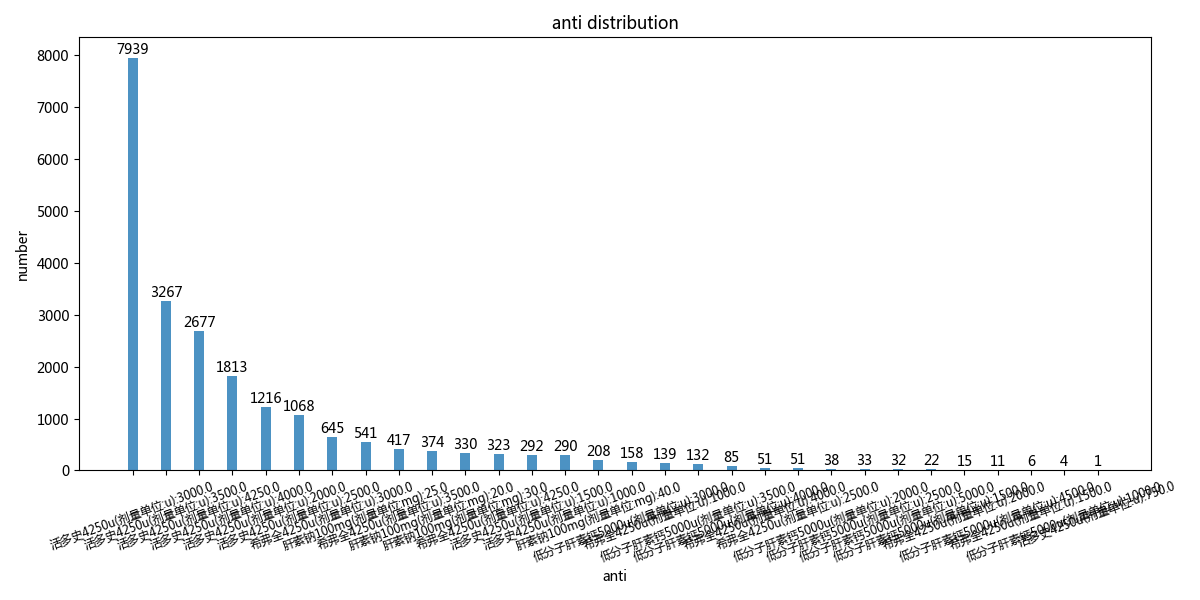
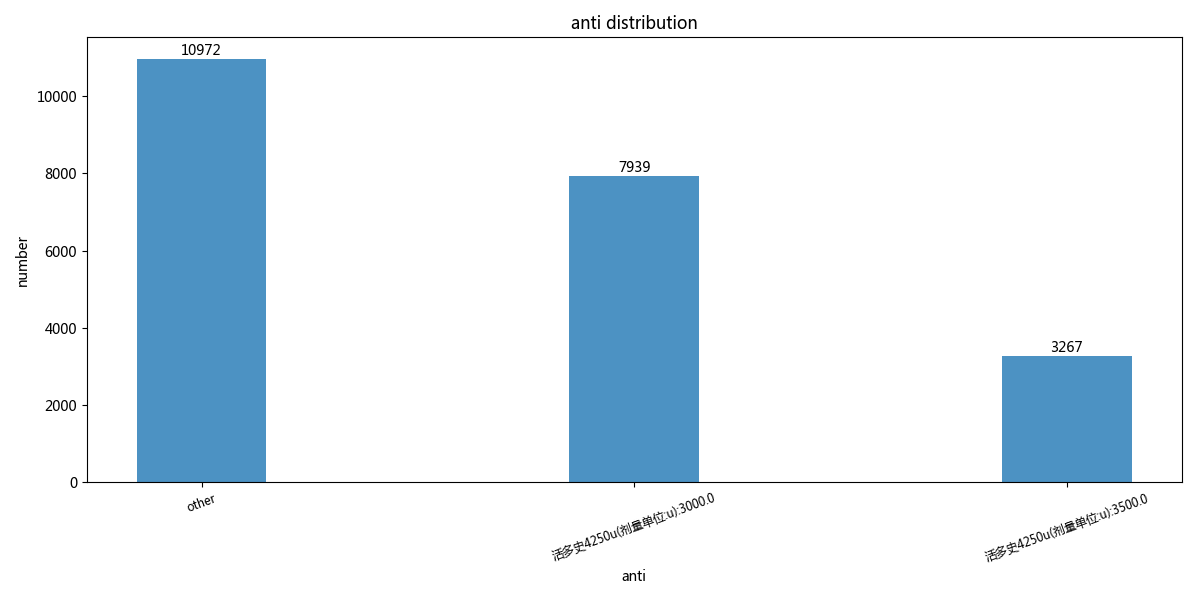
second try

diff --git a/model_main.py b/model_main.py
@@ -1,7 +1,7 @@
 # -*- coding: utf-8 -*-
 # @Author: LogicJake
 # @Date:   2018-10-29 18:53:00
-# @Last Modified time: 2018-10-31 17:30:47
+# @Last Modified time: 2018-11-02 11:24:56
 from loss_history import LossHistory
 import numpy as np
 import pandas as pd
@@ -13,6 +13,7 @@ from keras import regularizers
 from sklearn.cross_validation import train_test_split
 from keras.models import load_model
 from keras import backend as K
+from keras.optimizers import SGD
 
 
 seed = 7
@@ -20,7 +21,6 @@ np.random.seed(seed)
 
 # hyperparameters
 BS = 10000
-EPOCHS = 100
 l = 0.01
 
 
@@ -39,7 +39,21 @@ class MainModel(object):
         self.label_dict = {}
         self.label_num = {}
 
-    def build_hide(self, visible):
+    def build_mm_hide(self, visible):
+        hide1 = Dense(10, activation='relu',
+                      kernel_initializer='normal', activity_regularizer=regularizers.l1(l))(visible)
+        hide2 = Dense(10, activation='relu',
+                      kernel_initializer='normal', activity_regularizer=regularizers.l1(l))(hide1)
+        return hide2
+
+    def build_anti_hide(self, visible):
+        hide1 = Dense(10, activation='relu',
+                      kernel_initializer='normal', activity_regularizer=regularizers.l1(l))(visible)
+        hide2 = Dense(10, activation='relu',
+                      kernel_initializer='normal', activity_regularizer=regularizers.l1(l))(hide1)
+        return hide2
+
+    def build_add_hide(self, visible):
         hide1 = Dense(10, activation='relu',
                       kernel_initializer='normal', activity_regularizer=regularizers.l1(l))(visible)
         hide2 = Dense(10, activation='relu',
@@ -49,32 +63,26 @@ class MainModel(object):
     def build(self, input_dim):
         visible = Input(shape=(input_dim, ))
 
-        hide = self.build_hide(visible)
+        mm_hide = self.build_mm_hide(visible)
+        anti_hide = self.build_anti_hide(visible)
+        add_hide = self.build_add_hide(visible)
 
-        mode_num = self.label_num['mode']
-        machine_num = self.label_num['machine']
-        anti_type_num = self.label_num['anti_type']
-        anti_first_num = self.label_num['anti_first']
+        mm_num = self.label_num['mm']
+        anti_num = self.label_num['anti']
 
-        # mode
-        output_mode = Dense(mode_num, activation='sigmoid', kernel_initializer='normal',
-                            name='output_mode')(hide)
-        # machine
-        output_machine = Dense(machine_num, activation='sigmoid', kernel_initializer='normal',
-                               name='output_machine')(hide)
-        # anti_type
-        output_anti_type = Dense(anti_type_num, activation='sigmoid', kernel_initializer='normal',
-                                 name='output_anti_type')(hide)
-        # anti_first
-        output_anti_first = Dense(anti_first_num, activation='sigmoid', kernel_initializer='normal',
-                                  name='output_anti_first')(hide)
+        # mm
+        output_mm = Dense(mm_num, activation='softmax', kernel_initializer='normal',
+                          name='output_mm')(mm_hide)
+        # anti
+        output_anti = Dense(anti_num, activation='softmax', kernel_initializer='normal',
+                            name='output_anti')(anti_hide)
+
         # anti_add
         output_anti_add = Dense(1, kernel_initializer='normal',
-                                name='output_anti_add')(hide)
+                                name='output_anti_add')(add_hide)
 
         model = Model(inputs=visible,
-                      outputs=[output_mode, output_machine,
-                               output_anti_type, output_anti_first, output_anti_add])
+                      outputs=[output_mm, output_anti, output_anti_add])
         plot_model(model, to_file='model/model.png')
         return model
 
@@ -83,7 +91,7 @@ class MainModel(object):
             index = 0
             label = {}
             for column_name in columns:
-                if column_name.startswith(column):
+                if column_name.startswith(column + "+"):
                     label[index] = column_name.split('+')[1]
                     index += 1
             self.label_dict[column] = label
@@ -91,36 +99,30 @@ class MainModel(object):
 
     def split_Y(self, dataset):
         anti_add_num = 1
-        mode_num = self.label_num['mode']
-        machine_num = self.label_num['machine']
-        anti_type_num = self.label_num['anti_type']
-        anti_first_num = self.label_num['anti_first']
+        mm_num = self.label_num['mm']
+        anti_num = self.label_num['anti']
 
         anti_add_start = 0
-        mode_start = anti_add_start + anti_add_num
-        machine_start = mode_start + mode_num
-        anti_type_start = machine_start + machine_num
-        anti_first_start = anti_type_start + anti_type_num
+        mm_start = anti_add_start + anti_add_num
+        anti_start = mm_start + mm_num
 
-        Y_anti_add = dataset[:, anti_add_start:mode_start]
-        Y_mode = dataset[:, mode_start:machine_start]
-        Y_machine = dataset[:, machine_start:anti_type_start]
-        Y_anti_type = dataset[:, anti_type_start:anti_first_start]
-        Y_anti_first = dataset[
-            :, anti_first_start:anti_first_start + anti_first_num]
+        Y_anti_add = dataset[:, anti_add_start:mm_start]
+        Y_mm = dataset[:, mm_start:anti_start]
+        Y_anti = dataset[:, anti_start:anti_start + anti_num]
 
-        return [Y_mode, Y_machine, Y_anti_type, Y_anti_first, Y_anti_add]
+        return [Y_mm, Y_anti, Y_anti_add]
 
     def split_train_test(self, dataframe):
         X = dataframe.ix[:, 0:38].values
-        Y = dataframe.ix[:, 38:43]
+        Y = dataframe.ix[:, 38:41]
 
-        encoded_columns = ['mode', 'machine', 'anti_type', 'anti_first']
+        encoded_columns = ['mm', 'anti']
 
         # one-hot encoder
         Y = pd.get_dummies(
             Y, columns=encoded_columns, prefix_sep='+')
         column_name = Y.columns.values.tolist()
+        print(column_name)
         self.label_counter(column_name, encoded_columns)
 
         Y = Y.values
@@ -144,8 +146,18 @@ class MainModel(object):
         X_tranin, Y_tranin, X_test, Y_test = self.split_train_test(dataframe)
 
         model = self.build(X_tranin.shape[1])
-        model.compile(loss=[my_loss, my_loss, my_loss, my_loss, "mean_squared_error"],
-                      optimizer='adam',
+
+        learning_rate = 0.1
+        EPOCHS = 1000
+
+        decay_rate = learning_rate / EPOCHS
+        momentum = 0.8
+        sgd = SGD(lr=learning_rate, momentum=momentum,
+                  decay=decay_rate, nesterov=False)
+        # Fit the model
+
+        model.compile(loss=[my_loss, my_loss, "mean_squared_error"],
+                      optimizer=sgd,
                       metrics=["accuracy"])
 
         history = LossHistory()

diff --git a/loss_history.py b/loss_history.py
@@ -1,7 +1,7 @@
 # -*- coding: utf-8 -*-
 # @Author: LogicJake
 # @Date:   2018-10-31 10:45:22
-# @Last Modified time: 2018-11-01 09:38:47
+# @Last Modified time: 2018-11-02 10:48:13
 # 写一个LossHistory类，保存loss和acc
 
 import keras
@@ -14,16 +14,12 @@ class LossHistory(keras.callbacks.Callback):
         self.losses = {'batch': [], 'epoch': []}
 
         self.val_loss = {'batch': [], 'epoch': []}
-        self.val_output_mode_loss = {'batch': [], 'epoch': []}
-        self.val_output_machine_loss = {'batch': [], 'epoch': []}
-        self.val_output_anti_type_loss = {'batch': [], 'epoch': []}
-        self.val_output_anti_first_loss = {'batch': [], 'epoch': []}
+        self.val_output_mm_loss = {'batch': [], 'epoch': []}
+        self.val_output_anti_loss = {'batch': [], 'epoch': []}
         self.val_output_anti_add_loss = {'batch': [], 'epoch': []}
 
-        self.val_output_mode_acc = {'batch': [], 'epoch': []}
-        self.val_output_machine_acc = {'batch': [], 'epoch': []}
-        self.val_output_anti_type_acc = {'batch': [], 'epoch': []}
-        self.val_output_anti_first_acc = {'batch': [], 'epoch': []}
+        self.val_output_mm_acc = {'batch': [], 'epoch': []}
+        self.val_output_anti_acc = {'batch': [], 'epoch': []}
         self.val_output_anti_add_acc = {'batch': [], 'epoch': []}
 
     def on_batch_end(self, batch, logs={}):
@@ -32,25 +28,17 @@ class LossHistory(keras.callbacks.Callback):
 
     def on_epoch_end(self, batch, logs={}):
         self.val_loss['epoch'].append(logs.get('val_loss'))
-        self.val_output_mode_loss['epoch'].append(
-            logs.get('val_output_mode_loss'))
-        self.val_output_machine_loss['epoch'].append(
-            logs.get('val_output_machine_loss'))
-        self.val_output_anti_type_loss['epoch'].append(
-            logs.get('val_output_anti_type_loss'))
-        self.val_output_anti_first_loss['epoch'].append(
-            logs.get('val_output_anti_first_loss'))
+        self.val_output_mm_loss['epoch'].append(
+            logs.get('val_output_mm_loss'))
+        self.val_output_anti_loss['epoch'].append(
+            logs.get('val_output_anti_loss'))
         self.val_output_anti_add_loss[
             'epoch'].append(logs.get('val_output_anti_add_loss'))
 
-        self.val_output_mode_acc['epoch'].append(
-            logs.get('val_output_mode_acc'))
-        self.val_output_machine_acc['epoch'].append(
-            logs.get('val_output_machine_acc'))
-        self.val_output_anti_type_acc['epoch'].append(
-            logs.get('val_output_anti_type_acc'))
-        self.val_output_anti_first_acc['epoch'].append(
-            logs.get('val_output_anti_first_acc'))
+        self.val_output_mm_acc['epoch'].append(
+            logs.get('val_output_mm_acc'))
+        self.val_output_anti_acc['epoch'].append(
+            logs.get('val_output_anti_acc'))
         self.val_output_anti_add_acc['epoch'].append(
             logs.get('val_output_anti_add_acc'))
 
@@ -70,16 +58,12 @@ class LossHistory(keras.callbacks.Callback):
             plt.legend(loc="upper right")
 
             plt.subplot(2, 2, 2)
-            plt.plot(iters, self.val_output_mode_loss[
-                     loss_type], label='mode loss')
-            plt.plot(iters, self.val_output_machine_loss[
-                     loss_type],  label='machine loss')
-            plt.plot(iters, self.val_output_anti_type_loss[
-                     loss_type],  label='anti_type loss')
-            plt.plot(iters, self.val_output_anti_first_loss[
-                     loss_type],  label='anti_first loss')
-            plt.plot(iters, self.val_output_anti_add_loss[
-                     loss_type], label='anti_add loss')
+            plt.plot(iters, self.val_output_mm_loss[
+                     loss_type], label='mm loss')
+            plt.plot(iters, self.val_output_anti_loss[
+                     loss_type],  label='anti loss')
+            # plt.plot(iters, self.val_output_anti_add_loss[
+            #          loss_type], label='anti_add loss')
 
             plt.grid(True)
             plt.xlabel(loss_type)
@@ -87,14 +71,10 @@ class LossHistory(keras.callbacks.Callback):
             plt.legend(loc="upper right")
 
             plt.subplot(2, 1, 2)
-            plt.plot(iters, self.val_output_mode_acc[
-                     loss_type], label='mode acc')
-            plt.plot(iters, self.val_output_machine_acc[
-                     loss_type], label='machine acc')
-            plt.plot(iters, self.val_output_anti_type_acc[
-                     loss_type], label='anti_type acc')
-            plt.plot(iters, self.val_output_anti_first_acc[
-                     loss_type], label='anti_first acc')
+            plt.plot(iters, self.val_output_mm_acc[
+                     loss_type], label='mm acc')
+            plt.plot(iters, self.val_output_anti_acc[
+                     loss_type], label='anti acc')
             plt.plot(iters, self.val_output_anti_add_acc[
                      loss_type], label='anti_add acc')
             plt.grid(True)

diff --git a/data_analysis.py b/data_analysis.py
@@ -1,14 +1,14 @@
 # -*- coding: utf-8 -*-
 # @Author: LogicJake
 # @Date:   2018-11-01 10:01:08
-# @Last Modified time: 2018-11-02 09:45:32
+# @Last Modified time: 2018-11-02 10:44:09
 import pandas as pd
 import numpy as np
 import matplotlib.pyplot as plt
 import os
 
-mm_top = 5
-anti_top = 6
+mm_top = 1
+anti_top = 1
 
 
 def plot_bar(data, title, xlabel, ylabel='number', path=None):
@@ -88,28 +88,23 @@ def plot_distribution(df):
 
 
 def merge_output(df):
-    df['mm'] = df['machine'].str.cat(df['mode'], sep='+')
-    df = df.drop(['machine', 'mode'], axis=1)
-
-    df['anti_first'] = df['anti_first'].map(lambda x: str(x))
-    df['anti'] = df['anti_type'].str.cat(df['anti_first'], sep=':')
-    df = df.drop(['anti_first', 'anti_type'], axis=1)
-
     mm_count = df['mm'].value_counts()
     plot_bar(mm_count, 'mm distribution', xlabel='mm', path=None)
     total = np.sum(mm_count)
     mm_preserve = mm_count[:mm_top].index.tolist()
     mm_count = mm_count / total
-    print(np.sum(mm_count[:mm_top]))
-    print(mm_preserve)
+    # print(np.sum(mm_count[:mm_top]))
+    # print(mm_preserve)
 
     anti_count = df['anti'].value_counts()
     plot_bar(anti_count, 'anti distribution', xlabel='anti', path=None)
     total = np.sum(anti_count)
     anti_preserve = anti_count[:anti_top].index.tolist()
     anti_count = anti_count / total
-    print(np.sum(anti_count[:anti_top]))
-    print(anti_preserve)
+    # print(np.sum(anti_count[:anti_top]))
+    # print(anti_preserve)
+
+    print(mm_count, anti_count)
 
 if __name__ == '__main__':
     df = pd.read_csv('transformed_dataset/output.csv')

diff --git a/preprocessing.py b/preprocessing.py
@@ -6,6 +6,9 @@ import os
 import pandas as pd
 import numpy as np
 
+mm_top = 5
+anti_top = 6
+
 
 def create_dir():
     tmp_dir = 'transformed_dataset'
@@ -93,6 +96,22 @@ class Preprocessing(object):
 
         # first try: don not include flow in output
         df = df.drop(columns=['flow'])
+
+        # merge output
+        df['mm'] = df['machine'].str.cat(df['mode'], sep=':')
+        df = df.drop(['machine', 'mode'], axis=1)
+        df['anti_first'] = df['anti_first'].map(lambda x: str(x))
+        df['anti'] = df['anti_type'].str.cat(df['anti_first'], sep=':')
+        df = df.drop(['anti_first', 'anti_type'], axis=1)
+
+        mm_count = df['mm'].value_counts()
+        mm_preserve = mm_count[:mm_top].index.tolist()
+        anti_count = df['anti'].value_counts()
+        anti_preserve = anti_count[:anti_top].index.tolist()
+
+        df['mm'] = df['mm'].map(lambda x: x if x in mm_preserve else 'other')
+        df['anti'] = df['anti'].map(
+            lambda x: x if x in anti_preserve else 'other')
         df.to_csv('transformed_dataset/output.csv', index=False)
         return df
 

diff --git a/main.py b/main.py
@@ -1,9 +1,9 @@
 # -*- coding: utf-8 -*-
 # @Author: LogicJake
 # @Date:   2018-10-29 18:53:24
-# @Last Modified time: 2018-10-31 17:30:53
-import preprocessing
-import model_main
+# @Last Modified time: 2018-11-02 10:40:14
+from preprocessing import Preprocessing
+from model_main import MainModel
 import os
 
 
@@ -17,8 +17,8 @@ def create_dir():
 if __name__ == '__main__':
     create_dir()
 
-    # preprocessing = Preprocessing('dataset/input.csv', 'dataset/output.csv')
-    # preprocessing.reformat()
+    preprocessing = Preprocessing('dataset/input.csv', 'dataset/output.csv')
+    preprocessing.reformat()
 
-    main_model = model_main.MainModel('transformed_dataset/final.csv')
+    main_model = MainModel('transformed_dataset/final.csv')
     main_model.train()
